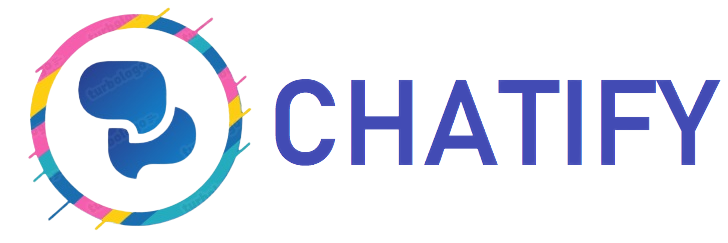
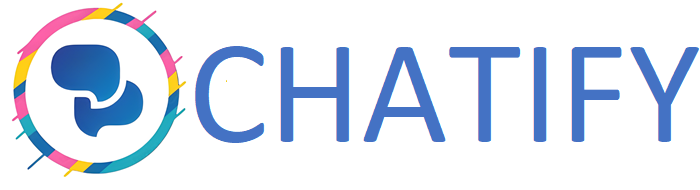
updated images without watermark and hd

diff --git a/README.md b/README.md
@@ -1,8 +1,8 @@
 
 # **Chatify**
-<center>
+
 ![Logo](https://github.com/chatify-SMIT/Chatify/blob/master/img/readmechatify.png?raw=true)
-</center>
+
 
 ## Introduction
 **Chatify** is a developing real-time communication platform that allows users to send and receive text, audio, and video messages in real-time. Chat applications can be used for personal communication, such as messaging friends and family, or for business communication, such as team collaboration or customer support.
